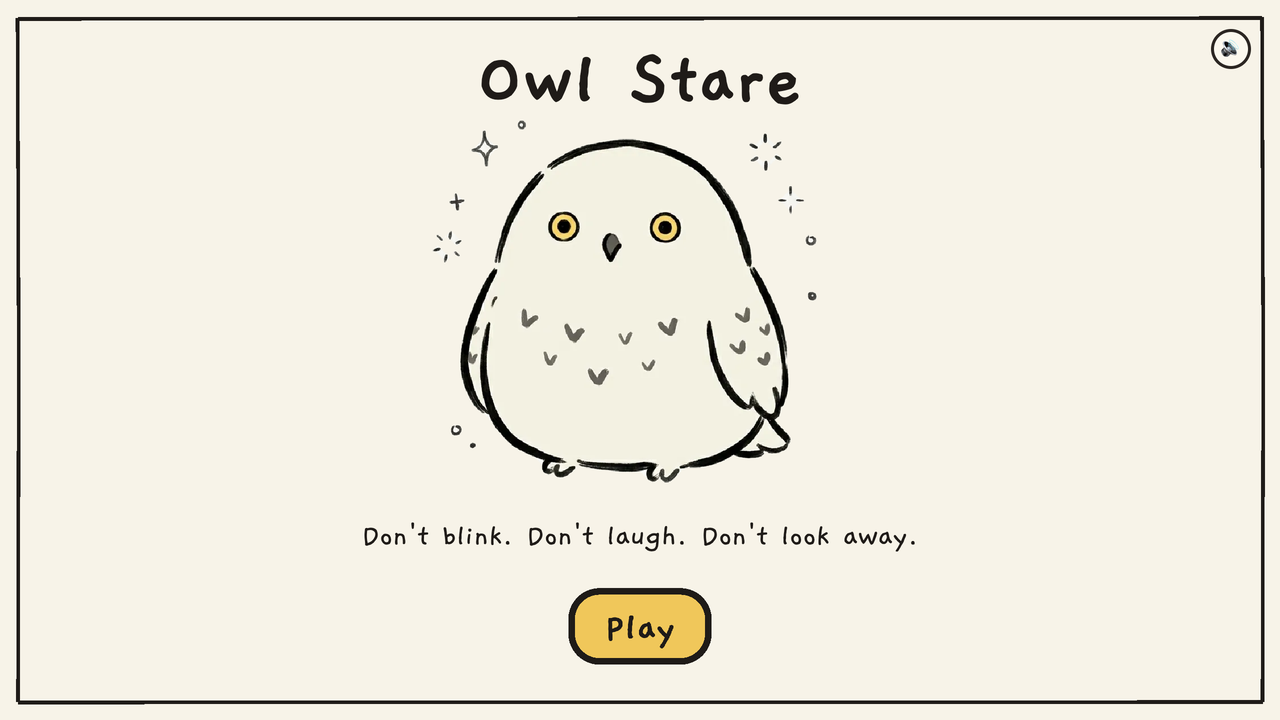
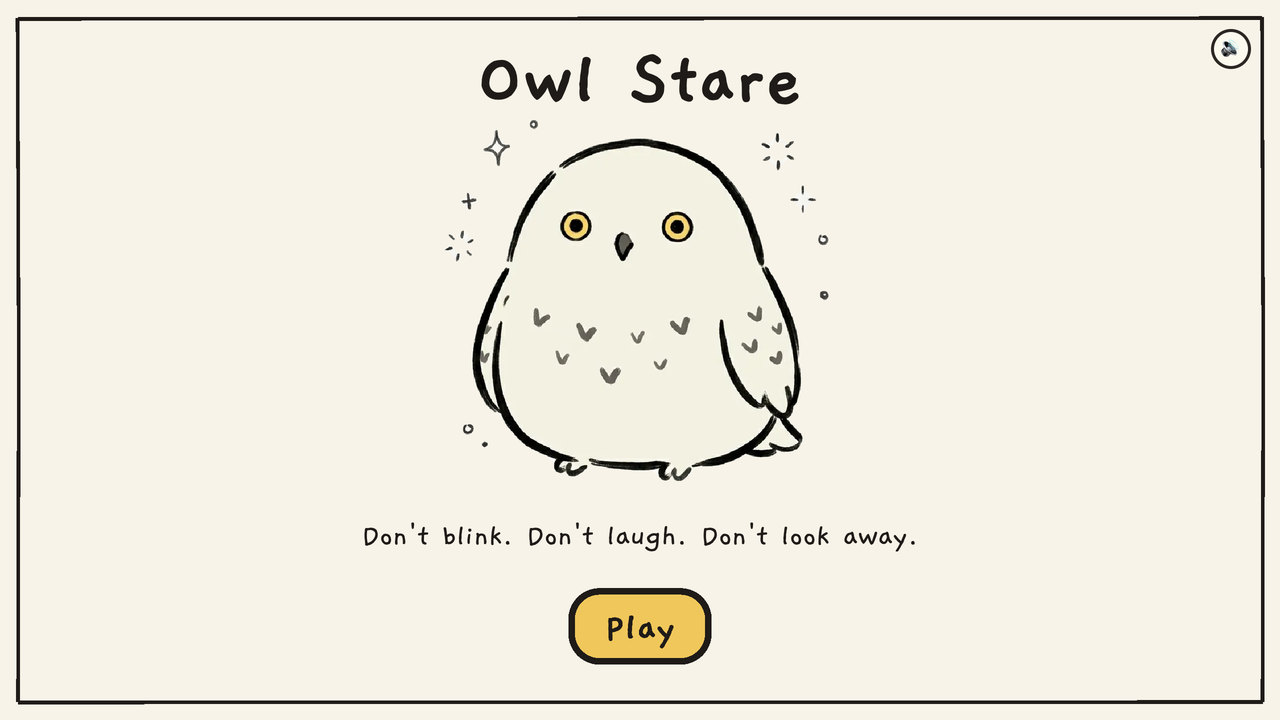
Centre each owl on its body, not its image box
Wings, tails and props pushed the drawings off centre (most visible on the
title owl). tools/owl-centers.py measures each owl's body centre into
src/art/owl-centers.js; sprites and the result card shift by it. Boomer's
wider fit keeps the megaphone on a phone screen, and the squeak duck stays
on screen. New title screenshots for the README and itch.

diff --git a/src/art/owl-sprite.js b/src/art/owl-sprite.js
@@ -2,6 +2,7 @@
 // so scenes and tricks can treat it like a sprite (setDisplaySize, scale and angle tweens, setFace).
 // The faces the code asks for map to poses; anything else (idle, stare, sweet, ...) is the owl's lineup pose, "rest".
 import { byId } from "../owls/index.js";
+import { BODY_X } from "./owl-centers.js";
 
 export const POSES = ["rest", "blink", "laugh", "shock", "tongue", "cross", "shout", "talk"];   // talk: the guide only
 const pose = (face) => (POSES.includes(face) ? face : "rest");
@@ -15,9 +16,10 @@ export class OwlSprite extends Phaser.GameObjects.Container {
     this.rest = "rest";   // the face tricks return to during a match
     // drawn from the feet, so the breathing below stretches upwards and the owl stays on the ground
     this.img = scene.add.image(0, 0, poseKey(this.art, face)).setOrigin(0.5, 1);
-    this.img.setY(this.img.height / 2);
+    // centre the owl's body, not the image box: wings, tails and props stick out to one side
+    this.img.setPosition(-(BODY_X[this.art] ?? 0) * this.img.width, this.img.height / 2);
     this.add(this.img);
-    this.setSize(this.img.width, this.img.height);
+    this.setSize(this.img.width + 2 * Math.abs(this.img.x), this.img.height);   // wide enough for the shifted image, so place() still fits it
     scene.add.existing(this);
     scene.tweens.add({ targets: this.img, scaleY: 1.025, scaleX: 0.99, duration: 1300 + Math.random() * 400, yoyo: true, repeat: -1, ease: "Sine.inOut" });
   }

diff --git a/src/card.js b/src/card.js
@@ -2,6 +2,7 @@
 // never from the camera, so no face can end up in it.
 import { INK, PAPER, BELLY, YELLOW } from "./art/owl.js";
 import { FONT } from "./ui.js";
+import { BODY_X } from "./art/owl-centers.js";
 
 // the itch page the share text and card point to
 export const PLAY_URL = "https://gianneangely.itch.io/owl-stare";
@@ -32,7 +33,8 @@ export async function cardBlob(o, r, champion) {
   g.fillStyle = BELLY; g.beginPath(); g.roundRect(60, 60, W - 120, H - 120, 48); g.fill(); g.stroke();
   const owl = await image(`assets/owls/${o.id}-${r.won ? "shock" : "laugh"}.webp`);
   const n = o.twins ? 2 : 1, k = Math.min((n > 1 ? 470 : 560) / owl.height, (W - 220) / n / owl.width), ow = owl.width * k, oh = owl.height * k;
-  for (let i = 0; i < n; i++) g.drawImage(owl, W / 2 - ow / 2 + (i - (n - 1) / 2) * ow * 0.95, 670 - oh, ow, oh);
+  const dx = -(BODY_X[o.id] ?? 0) * ow;   // centre the body, not the image box
+  for (let i = 0; i < n; i++) g.drawImage(owl, W / 2 - ow / 2 + dx + (i - (n - 1) / 2) * ow * 0.95, 670 - oh, ow, oh);
   g.fillStyle = INK; g.textAlign = "center"; g.textBaseline = "middle";
   fitText(g, head, W / 2, 750, 84, W - 200);
   fitText(g, line, W / 2, 840, 46, W - 220, 400);

diff --git a/src/tricks/squeak.js b/src/tricks/squeak.js
@@ -3,7 +3,8 @@ import { sfx } from "../audio.js";
 
 export function squeak(scene, owl, done) {
   const size = owl.displayHeight, s = size / 1100, side = owl.x < scene.scale.width / 2 ? 1 : -1;
-  const duck = scene.add.image(owl.x + side * owl.displayWidth * 0.62, owl.y + size * 0.36, "duck").setScale(0).setDepth(6).setFlipX(side < 0);
+  const w = scene.scale.width, edge = size * 0.12;   // keep the duck on a narrow phone screen
+  const duck = scene.add.image(Phaser.Math.Clamp(owl.x + side * owl.displayWidth * 0.62, edge, w - edge), owl.y + size * 0.36, "duck").setScale(0).setDepth(6).setFlipX(side < 0);
   scene.tweens.add({ targets: duck, scale: s, duration: 200, ease: "Back.out" });
   for (let i = 0; i < 3; i++) scene.time.delayedCall(400 + i * 380, () => {
     sfx.squeak();

diff --git a/src/art/owl-centers.js b/src/art/owl-centers.js
@@ -1,0 +1,2 @@
+// Made by tools/owl-centers.py: each owl's body centre minus the sprite centre, as a share of the sprite width.
+export const BODY_X = {"boomer": -0.1432, "boss": -0.0043, "dj": -0.0076, "grandma": -0.0487, "guide": -0.0313, "hoot": 0.0022, "plume": -0.0088, "twins": -0.001, "twitchy": 0.0021};

diff --git a/tools/owl-centers.py b/tools/owl-centers.py
@@ -1,0 +1,20 @@
+"""Writes src/art/owl-centers.js: how far each owl's body sits from the middle of its sprite, as a share of the
+sprite width. Props stick out to one side (the guide's wing and tail, Boomer's megaphone, Grandma's yarn), so
+centring the image box makes the owl itself look off-centre (Angel, 19 Oct). The body is the run of columns where
+the drawing is at least half as tall as its tallest column, on the rest pose (every pose shares that body).
+python3 tools/owl-centers.py"""
+import glob, os, json
+import numpy as np
+from PIL import Image
+
+ROOT = os.path.dirname(os.path.dirname(os.path.abspath(__file__)))
+out = {}
+for f in sorted(glob.glob(f"{ROOT}/assets/owls/*-rest.webp")):
+    a = np.asarray(Image.open(f).convert("RGBA"))[..., 3] > 128
+    col = a.sum(0)
+    core = np.nonzero(col > col.max() * 0.5)[0]
+    out[os.path.basename(f).split("-")[0]] = round(float((core.min() + core.max()) / 2 / a.shape[1] - 0.5), 4)
+with open(f"{ROOT}/src/art/owl-centers.js", "w") as fh:
+    fh.write("// Made by tools/owl-centers.py: each owl's body centre minus the sprite centre, as a share of the sprite width.\n")
+    fh.write(f"export const BODY_X = {json.dumps(out)};\n")
+print(out)

diff --git a/itch/PAGE.md b/itch/PAGE.md
@@ -2,7 +2,7 @@
 
 Upload: `owl-stare-web.zip` (9.52 MB, index.html at the root; rebuild with `tools/build-zip.sh`). Kind: HTML, "This file will be played in the browser".
 Embed: 960 × 600, Mobile friendly ✓, Fullscreen button ✓. The iframe must allow the camera (itch's default embed does).
-Cover: `cover.png` (1260 × 1000) or `cover-630x500.png`. Screenshots: `screenshots/1-title.png` … `6-result.png` (1280 × 720, no real faces).
+Cover: `cover.png` (1260 × 1000) or `cover-630x500.png`. Screenshots: `screenshots/1-title.png` … `6-result.png` (1280 × 720, no real faces); `screenshots/0-title-1280x800.png` is the title at 1280 × 800.
 Link the result card points to: https://gianneangely.itch.io/owl-stare
 
 ## Title
